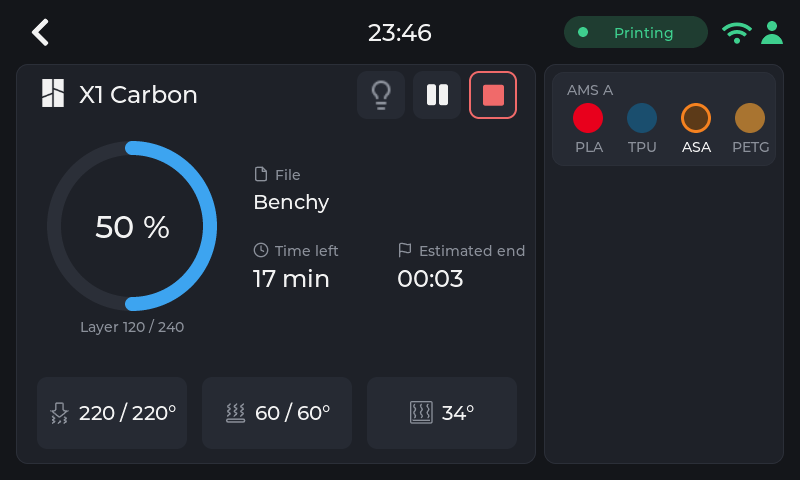
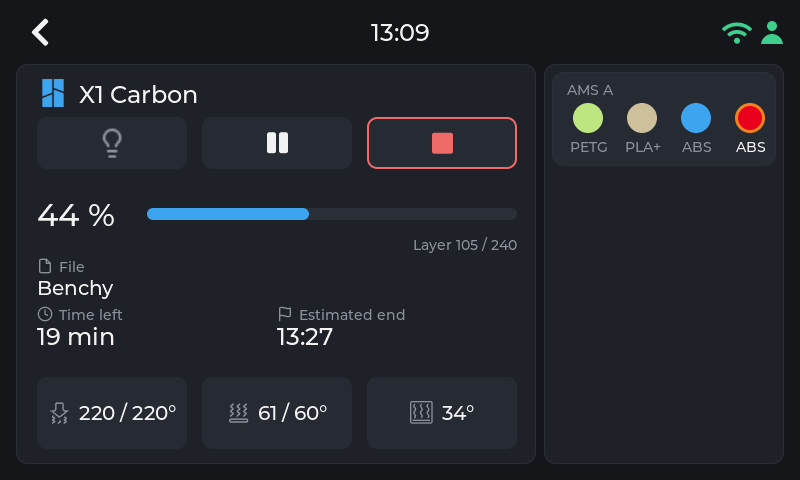
Take the README's screen captures again, with the progress line and the state colours
The six pictures of the README show the cards, the list and the full views as
the firmware draws them now: the progress line, the three buttons across the
card, the logo and the line in the state's colour, the name in white. Same
files, same printers, taken in Demo mode with the screen in English. Their
descriptions say progress line and amber instead of ring and orange.

diff --git a/README.md b/README.md
@@ -141,8 +141,8 @@ to the way you work, not the other way round.
 
 <table>
   <tr>
-    <td width="50%"><img src="assets/screens/home-cards.png" alt="Home screen in card view: two printers printing, each with its progress ring, file, time left, end time and temperatures"></td>
-    <td width="50%"><img src="assets/screens/home-list.png" alt="Home screen in list view: four printers printing, each with its progress bar, file, time left, temperatures, light, pause and stop"></td>
+    <td width="50%"><img src="assets/screens/home-cards.png" alt="Home screen in card view: two printers printing, each with its three buttons, its progress line, file, time left, end time and temperatures"></td>
+    <td width="50%"><img src="assets/screens/home-list.png" alt="Home screen in list view: five printers, one of them paused in amber, each with its progress bar, file, time left, temperatures, light, pause and stop"></td>
   </tr>
   <tr>
     <td><b>Cards</b>: one live card per printer, slide for more.</td>
@@ -150,15 +150,15 @@ to the way you work, not the other way round.
   </tr>
   <tr>
     <td><img src="assets/screens/printer-snapmaker-u1.png" alt="Full view of a Snapmaker U1 printing: progress, layers, four tool heads with the active one ringed, and its four filaments"></td>
-    <td><img src="assets/screens/printer-flashforge-ad5x.png" alt="Full view of a FlashForge AD5X paused: its progress ring in orange, its external spool and its four-slot material station"></td>
+    <td><img src="assets/screens/printer-flashforge-ad5x.png" alt="Full view of a FlashForge AD5X paused: its progress line in amber, its external spool and its four-slot material station"></td>
   </tr>
   <tr>
     <td><b>Snapmaker U1</b>: four tool heads, the active one ringed.</td>
-    <td><b>FlashForge AD5X</b>: paused, in orange; external spool and station.</td>
+    <td><b>FlashForge AD5X</b>: paused, in amber; external spool and station.</td>
   </tr>
   <tr>
-    <td><img src="assets/screens/printer-bambu-x1c.png" alt="Full view of a Bambu Lab X1 Carbon printing: progress ring in blue, layers, time left, estimated end, and its AMS"></td>
-    <td><img src="assets/screens/printer-creality-k2.png" alt="Full view of a Creality K2 Plus printing: progress ring in blue, layers, time left, estimated end, and its CFS"></td>
+    <td><img src="assets/screens/printer-bambu-x1c.png" alt="Full view of a Bambu Lab X1 Carbon printing: progress line in blue, layers, time left, estimated end, and its AMS"></td>
+    <td><img src="assets/screens/printer-creality-k2.png" alt="Full view of a Creality K2 Plus printing: progress line in blue, layers, time left, estimated end, and its CFS"></td>
   </tr>
   <tr>
     <td><b>Bambu Lab X1 Carbon</b>: its AMS, the slot in use ringed.</td>

diff --git a/WORKLOG.md b/WORKLOG.md
@@ -15,6 +15,7 @@ reset to this header at each release.
 - List rows: the nozzle and bed pictograms are drawn (24 px, the only size they have), not asked for at 16 px.
 
 ## Changed
+- README screens: the six captures taken again in Demo mode, their descriptions say progress line and amber (they follow the card, list and full view changes).
 - Printer cards: the progress is a line under the three buttons, which share the card's width; the ring is gone.
 - Full view: the ring is a line under the three buttons, which share the card's width; no state pill, the logo takes the state's colour, the name stays white (ui_state_tone, ui_beat).
 - Cards and list: no state dot and word; the logo and the progress line take the state's colour, the name stays white (tone_of); an error pulses (ui_beat).

diff --git a/CHANGELOG.md b/CHANGELOG.md
@@ -35,6 +35,12 @@ they were written.
   printer is still being reached, red when it is silent (its card dimmed). A
   printer in error pulses, its name and its logo together, like a heartbeat.
 
+- **The README's six screen captures show the firmware as it is now**: the cards,
+  the list and the full views of the Snapmaker U1, the FlashForge AD5X, the Bambu
+  Lab X1 Carbon and the Creality K2 Plus, taken again in Demo mode, with the
+  progress line, the three buttons across the card and the state's colour. Their
+  descriptions no longer speak of a ring.
+
 ### Removed
 - **The state words** (Printing, Paused, Done, Error, Idle, Offline) are no longer
   on any screen, so their six keys leave the translation table, in every language.
